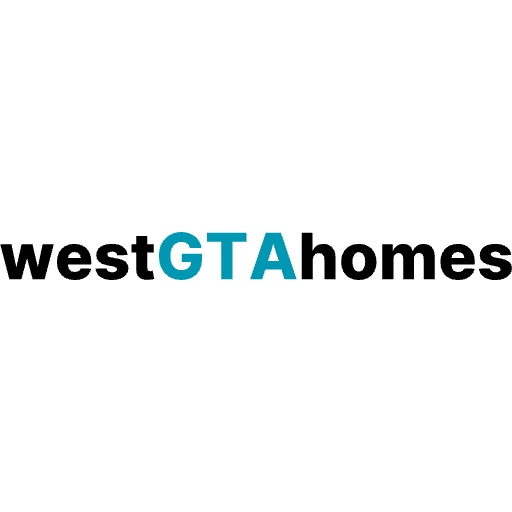
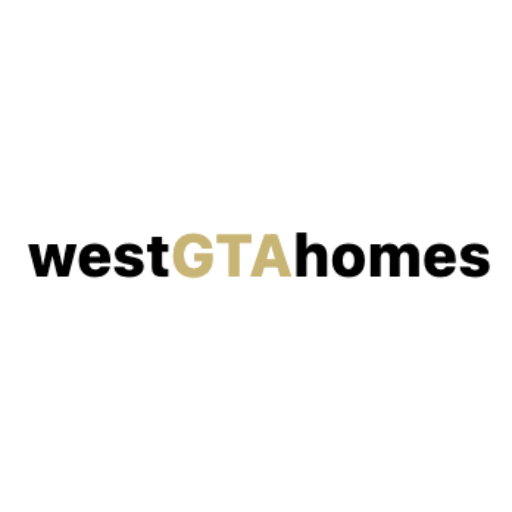
fix: style and text

Changed region(s): [[0.0, 0.4375, 1.0, 0.5625]]

diff --git a/src/components/HeroSection.jsx b/src/components/HeroSection.jsx
@@ -25,7 +25,7 @@ const HeroSection = () => {
     <div className="">
       <div className="mx-auto">
         <div
-          className="relative flex h-[50vh] sm:h-[70vh] flex-col lg:flex-row items-center justify-center pt-10 gap-x-10 lg:pb-20 gap-y-12 sm:gap-y-0 px-2 sm:px-0 bg-bottom bg-no-repeat"
+          className="relative flex h-[90vh] sm:h-[70vh] flex-col lg:flex-row items-center justify-center pt-10 gap-x-10 lg:pb-20 gap-y-12 sm:gap-y-0 px-2 sm:px-0 bg-bottom bg-no-repeat"
           // id="hero-section"
         >
           <div className="w-full z-10 pb-20 sm:w-screen flex flex-col items-center mb-10 lg:mb-0 order-2 sm:order-1 cover">
@@ -82,16 +82,16 @@ const HeroSection = () => {
             <div className="text-medium sm:text-xl mt-2 text-center">
               Explore homes that perfectly match your search around west GTA
             </div>
-            <div className="flex flex-row justify-between gap-x-20 mt-4">
+            <div className="flex flex-col md:flex-row justify-around md:justify-between sm:gap-x-20 mt-4">
               <Link
                 href="/ontario"
-                className="px-4 py-2 rounded-lg border-2 bg-black text-white font-bold transition-colors duration-300 hover:bg-primary-green hover:text-white"
+                className="px-4 py-2 rounded-lg border-2 bg-black text-white font-bold transition-colors duration-300 hover:bg-primary-green hover:text-white text-sm md:text-md"
               >
                 Homes Across Ontario
               </Link>
               <Link
                 href="/commercial/ontario"
-                className="px-4 py-2 rounded-lg border-2 bg-black text-white font-bold transition-colors duration-300 hover:bg-primary-green hover:text-white"
+                className="px-4 py-2 rounded-lg border-2 bg-black text-white font-bold transition-colors duration-300 hover:bg-primary-green hover:text-white text-sm md:text-md"
               >
                 Commercial Properties
               </Link>

diff --git a/src/components/Footer.jsx b/src/components/Footer.jsx
@@ -33,8 +33,13 @@ const Footer = ({ cities }) => {
           <div className="space-y-24">
             {/* New homes section */}
             <div>
-              <h3 className="text-2xl sm:text-5xl font-extrabold text-center mb-12 font-family2 ">
-                Explore West GTA Homes For Sale In Canada
+              <h3 className="text-2xl sm:text-5xl font-extrabold text-center mb-12 font-family2 leading-[3rem]">
+                Explore and find you dream home with{" "}
+                <span className="font-extrabold tracking-wide leading-[4rem]">
+                  west
+                  <span className="text-primary-green">GTA</span>
+                  homes
+                </span>
               </h3>
               <ul className="grid grid-cols-2 sm:grid-cols-3 md:grid-cols-4 lg:grid-cols-4 gap-4 text-sm">
                 {allCities.map((val, idx) => (
@@ -141,11 +146,10 @@ const Footer = ({ cities }) => {
                 </div>
                 <p className="text-sm leading-relaxed mb-8">
                   westgtahomes (“westgtahomes.ca”) is a real estate marketplace
-                  platform -owned by Homebaba technologies Inc. westgtahomes
-                  refers potential buyers to real estate agents that are
-                  licensed in the province where the respective property is
-                  located. Dolphin Realty is licensed as a real estate brokerage
-                  in Ontario.
+                  platform owned by Sam Valji. westgtahomes refers potential
+                  buyers to real estate agents that are licensed in the province
+                  where the respective property is located. Bay Street Group Inc
+                  is licensed as a real estate brokerage in Ontario.
                   <br />
                   <br />
                   IDX information is provided exclusively for consumers’

diff --git a/src/components/ResaleCard.jsx b/src/components/ResaleCard.jsx
@@ -122,7 +122,7 @@ const ResaleCard = ({ curElem, small = false, showDecreasedPrice = false }) => {
 
               {/* Property Tags */}
               <div className="absolute top-3 left-3 flex gap-2">
-                <span className="bg-blue-500 text-white px-2 py-1 rounded-full text-xs font-medium">
+                <span className="bg-primary-green text-white px-2 py-1 rounded-full text-xs font-medium">
                   {curElem.TypeOwn1Out}
                 </span>
                 {curElem.ApproxSquareFootage && (
@@ -178,14 +178,10 @@ const ResaleCard = ({ curElem, small = false, showDecreasedPrice = false }) => {
                   <div className="flex items-center text-gray-700">
                     <img
                       src="/resale-card-img/garage.svg"
-                      className={`${small ? "w-3 h-3" : "w-4 h-4"} mr-1`}
+                      className="w-3 h-3 sm:w-4 sm:h-4 mr-1"
                       alt="garage"
                     />
-                    <span
-                      className={`${
-                        small ? "text-xs" : "text-sm"
-                      } whitespace-nowrap`}
-                    >
+                    <span className="text-xs sm:text-sm whitespace-nowrap">
                       {Math.floor(curElem.GarageSpaces)} Garage
                     </span>
                   </div>

diff --git a/src/components/CanadianCitiesShowcase.jsx b/src/components/CanadianCitiesShowcase.jsx
@@ -20,21 +20,20 @@ const CityCard = ({ name, imageUrl }) => (
 
 const CanadianCitiesShowcase = () => {
   const cities = [
-    { name: "Mississauga", imageUrl: "/images/mississauga.jpg" },
-    { name: "Brampton", imageUrl: "/images/brampton.jpg" },
     { name: "Oakville", imageUrl: "/images/oakville.jpg" },
-    { name: "Milton", imageUrl: "/images/milton.jpg" },
     { name: "Burlington", imageUrl: "/images/burlington.jpg" },
+    { name: "Milton", imageUrl: "/images/milton.jpg" },
+    { name: "Brampton", imageUrl: "/images/brampton.jpg" },
+    { name: "Hamilton", imageUrl: "/images/hamilton.jpg" },
     { name: "Georgetown", imageUrl: "/images/georgetown.jpg" },
-    { name: "Etobicoke", imageUrl: "/images/etobicoke.png" },
-    { name: "Vaughan", imageUrl: "/images/vaughan.jpg" },
+    { name: "Halton Hills", imageUrl: "/images/halton-hills.jpg" },
   ];
 
   return (
     <div className="my-[5rem] sm:my-[10rem]">
       <div className="mx-auto">
         <h2 className="text-4xl font-bold text-center mb-2 mt-10">
-          Commercial Properties for sale in{" "}
+          Homes for sale in{" "}
           <span className="text-primary-green">your city </span>
           <span className="text-primary-green relative">
             <span className="absolute bottom-0 left-0 w-full h-1 bg-primary-gretext-primary-green rounded"></span>

diff --git a/src/components/Navbar.jsx b/src/components/Navbar.jsx
@@ -360,7 +360,7 @@ const Navbar = (props) => {
                   <span className="font-bold">
                     west
                     <span className="text-primary-green font-bold">GTA</span>
-                    homes
+                    homes.ca
                   </span>{" "}
                   Team
                 </div>
@@ -442,7 +442,17 @@ const Navbar = (props) => {
                   <img src="/contact.jpg" className="w-12"></img>
                   <div className="flex flex-col items-center justify-center">
                     <div className="text-lg font-bold">647 409 4848</div>
-                    <div className="text-xs">Speak with westgtahomes team</div>
+                    <div className="text-xs">
+                      Speak with{" "}
+                      <span className="font-bold">
+                        west
+                        <span className="text-primary-green font-bold">
+                          GTA
+                        </span>
+                        homes.ca
+                      </span>{" "}
+                      Team
+                    </div>
                   </div>
                 </div>
               </Link>

diff --git a/src/components/FiltersWithSalesList.jsx b/src/components/FiltersWithSalesList.jsx
@@ -16,6 +16,7 @@ import { ImSpinner } from "react-icons/im";
 import HotListings from "./HotListings";
 import PageSelector from "./PageSelector";
 import Image from "next/image";
+import Logo from "./Logo";
 // import formatCurrency from "@/helpers/formatCurrency";
 // import FilterSubmit from "../FilterSubmit";
 
@@ -207,8 +208,7 @@ const FiltersWithSalesList = ({
             homeText,
             "for " + `${capitalizeFirstLetter(saleLeaseVal) || "Sale"}`,
           ].join(" ") + " "}{" "}
-          {city ? ` | ${capitalizeFirstLetter(city) || "Sale"}` : ""} |
-          Westgtahomes.ca
+          {city ? ` | ${capitalizeFirstLetter(city) || "Sale"}` : ""} | <Logo />
         </h1>
         <h2
           className="text-sm mb-5 mt-1 text-center sm:text-left"

diff --git a/src/components/NewsletterSignup.jsx b/src/components/NewsletterSignup.jsx
@@ -6,7 +6,7 @@ const NewsletterSignup = () => {
       <div className="px-4 mx-auto sm:px-6 lg:px-8 max-w-6xl">
         <div className="text-center mb-12">
           <h2 className="text-3xl font-semibold text-black sm:text-4xl lg:text-5xl mb-4 text-center">
-            West GTA homes for sale in Canada updated hourly
+            Homes for sale in west GTA area - Up to date
           </h2>
           <p className="text-base font-normal leading-7 text-gray-700 lg:text-lg max-w-2xl mx-auto">
             Subscribe to our free weekly newsletter for the latest

diff --git a/src/api/resend.js b/src/api/resend.js
@@ -15,7 +15,7 @@ export const sendEmail = async ({ content, page = null, title = null }) => {
   const { data, error } = await resend.emails.send({
     from: "westgtahomes <info@westgtahomes.ca>",
     to: ["suleman.valji@gmail.com"],
-    subject: `Inquiry from ${page || "property"} in westgtahomes`,
+    subject: `Inquiry from ${page || "property"} - westgtahomes.ca`,
     html: `<h1>${
       title || `Inquiry from ${page} page`
     }</h1><br/><ul>${contentArray

diff --git a/src/app/layout.js b/src/app/layout.js
@@ -52,7 +52,7 @@ export default function RootLayout({ children }) {
 
       <body className="bg-white text-black ">
         <NextTopLoader
-          color="#FF0000"
+          color="#c8b575"
           initialPosition={0.08}
           crawlSpeed={200}
           height={3}
